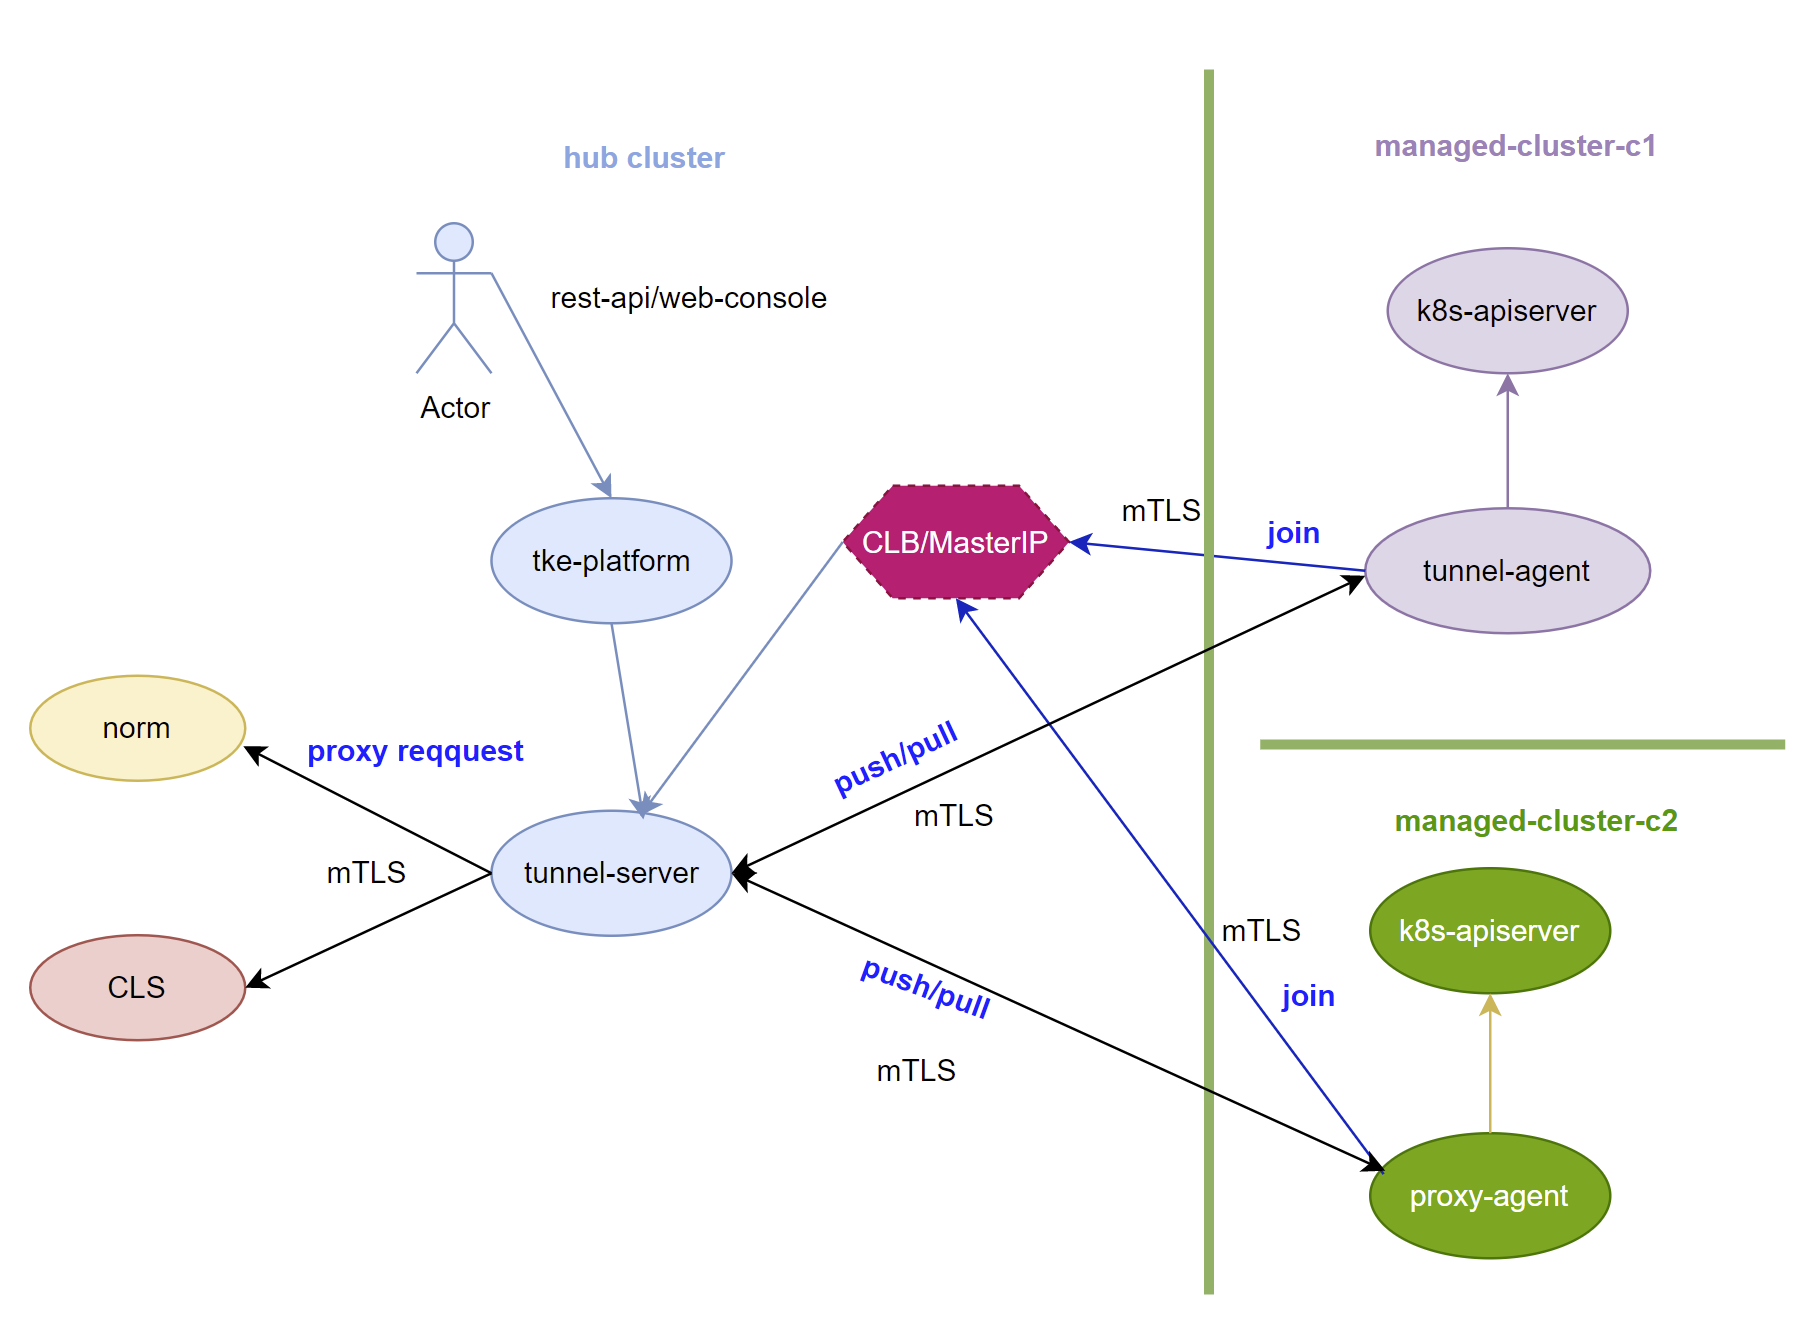
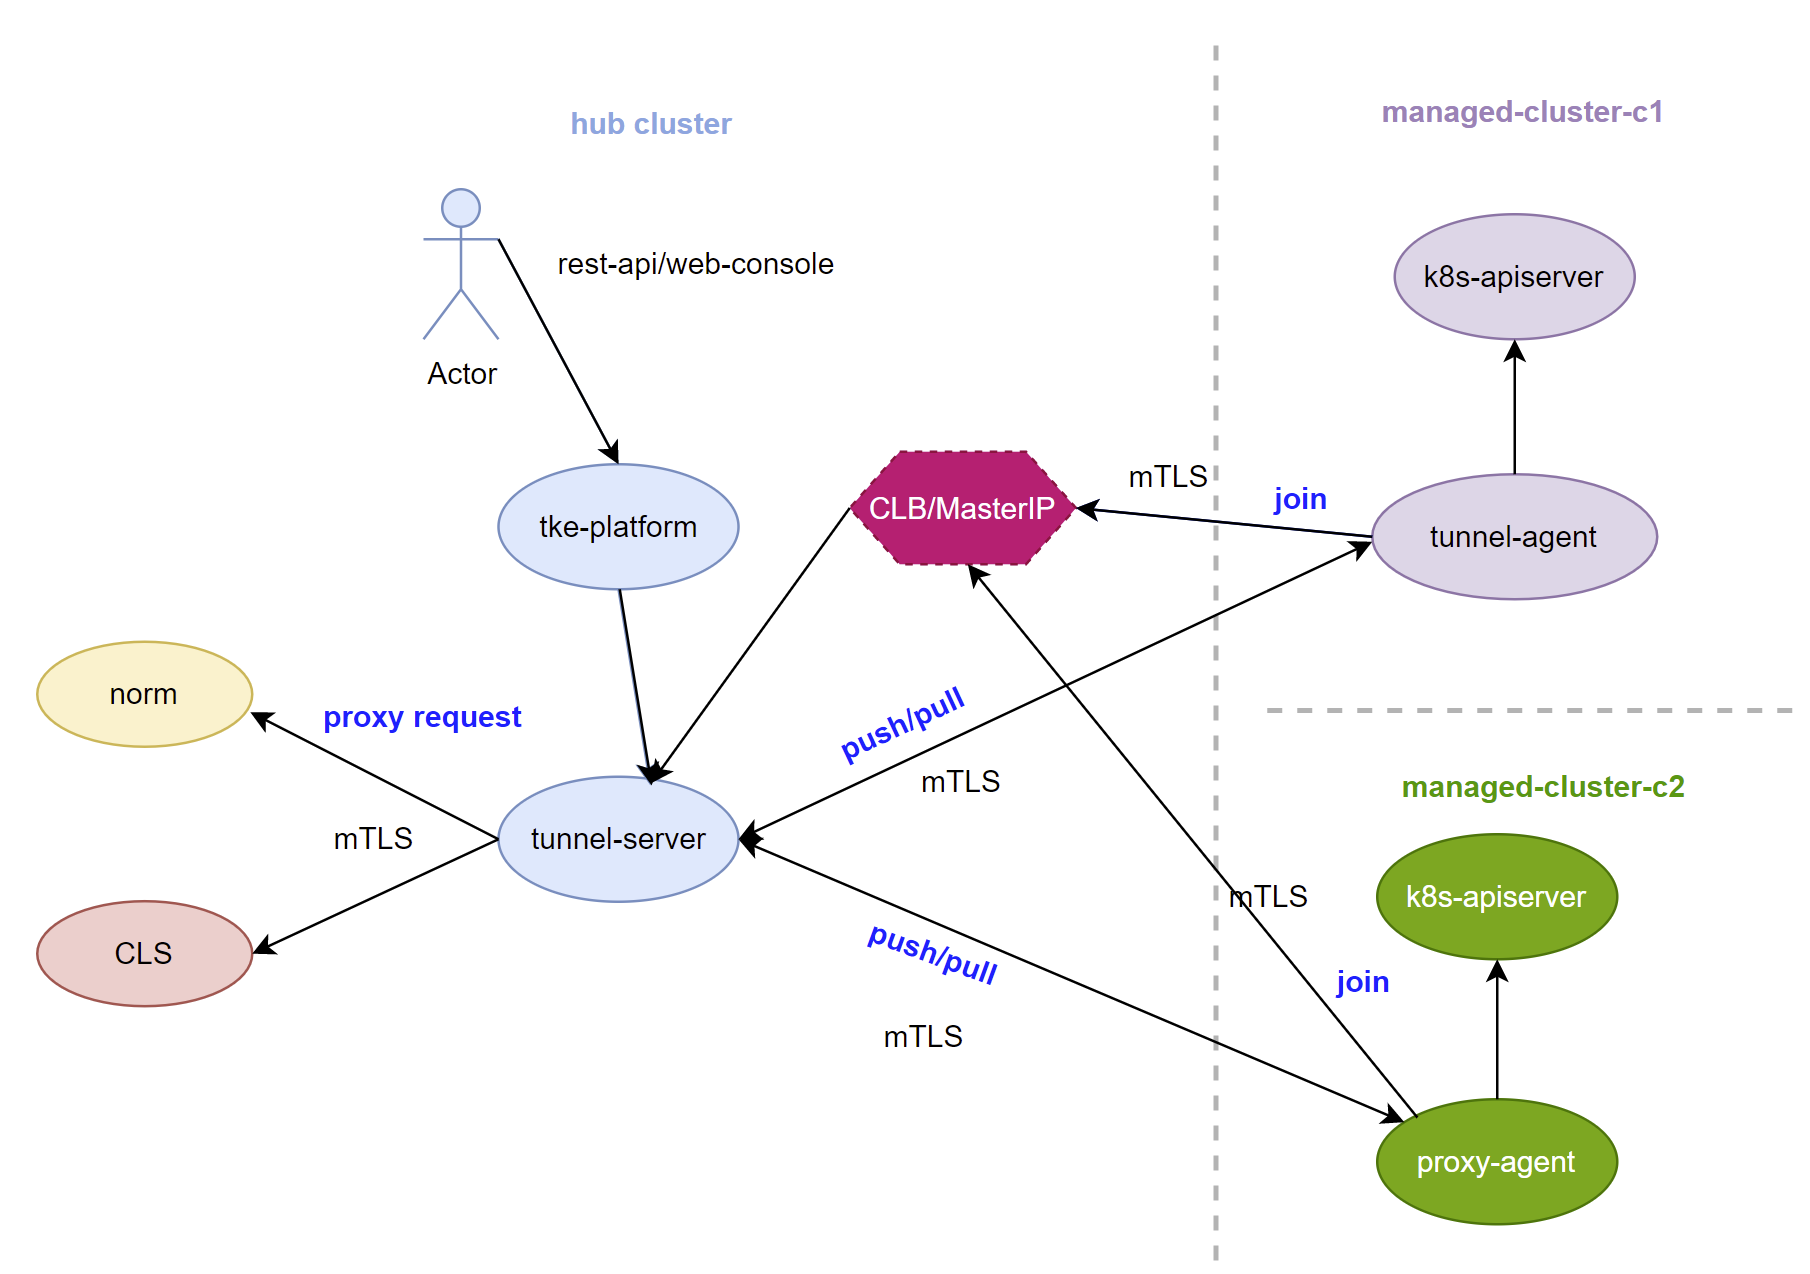
update

diff --git a/pkg/yurttunnel/server/reverse_proxy_server.go b/pkg/yurttunnel/server/reverse_proxy_server.go
@@ -33,7 +33,7 @@ import (
 var (
 	apiServerAddress string = "https://" +
 		net.JoinHostPort(os.Getenv("KUBERNETES_SERVICE_HOST"), os.Getenv("KUBERNETES_SERVICE_PORT"))
-	normServerAddress string = "https://norm"
+	normServerAddress string = "http://169.254.0.40:80/norm/api"
 )
 
 type reverseProxyServer struct {
@@ -79,9 +79,9 @@ func (r *reverseProxyServer) registerHandler() {
 	r.mux.HandleFunc("/v1/healthz", r.healthz).Methods("GET")
 
 	// for norm api request
-	r.mux.PathPrefix("/v1/norm").Handler(&reverseProxyHandler{reverseProxy: normServerAddress})
+	r.mux.PathPrefix("/norm/api").Handler(&reverseProxyHandler{reverseProxy: normServerAddress})
 
-	// for apiserver request
+	// for apiserver request at last
 	r.mux.PathPrefix("/").Handler(&reverseProxyHandler{reverseProxy: apiServerAddress})
 }
 

diff --git a/README.md b/README.md
@@ -47,9 +47,9 @@ kubectl  create -f config/setup/yurt-tunnel-agent.yaml
 
 ## Tunnel test
 
-The `Managed cluster` doesn't have `inbound` network,  so `Hub cluster` can't access to `Managed cluster` directly for communication, but it has `outbound` network which can access to tunnel sever to setup a reverse tunnel , then `Managed cluster` is able to communicate to `Hub cluster` by  this tunnel.  The test client will leverage [ANP client](https://github.com/kubernetes-sigs/apiserver-network-proxy/tree/master/cmd/client) to verify tunnel works as excepted. To simplified the verification test case ,  the tunnel server and tunnel client are deployed to same pod and use same crt/key pairs to enable mTLS based communication
+The `Managed cluster` doesn't have `inbound` network, so `Hub cluster` can't access to `Managed cluster` directly for communication, but it has `outbound` network which can access to tunnel sever to setup a reverse tunnel, then `Managed cluster` is able to communicate to `Hub cluster` by this tunnel. The test client will leverage [ANP client](https://github.com/kubernetes-sigs/apiserver-network-proxy/tree/master/cmd/client) to verify tunnel works as excepted. To simplified the verification test case, the tunnel server and tunnel client are deployed to same pod and use same crt/key pairs to enable mTLS based communication
 
-`Hub cluster`:  
+`Hub cluster`:
 
 ```
 root@VM-0-80-ubuntu:~# kubectl get node
@@ -67,7 +67,7 @@ NAME          STATUS   ROLES    AGE    VERSION
 root@VM-0-77-ubuntu:~# 
 ```
 
-### case 1:  HTTP-Connect client using mTLS Proxy with dial back Agent to Python based SimpleHTTPServer
+### case 1: HTTP-Connect client using mTLS Proxy with dial back Agent to Python based SimpleHTTPServer
 
 ```
 client =HTTP-CONNECT=> (:10263) proxy (:10262) <=GRPC= agent =HTTP=> SimpleHTTPServer(:8000)
@@ -76,7 +76,7 @@ client =HTTP-CONNECT=> (:10263) proxy (:10262) <=GRPC= agent =HTTP=> SimpleHTTPS
   +----------------------------------------------------+
 ```
 
-1.  Check the tunnel server and tunnel agent both in `Running` and ready to use
+1. Check the tunnel server and tunnel agent both in `Running` and ready to use
 
 ```
 root@VM-0-80-ubuntu:~# kubectl get po -A |grep tunn
@@ -86,14 +86,14 @@ kube-system   yurt-tunnel-agent-7597c6dd89-ncg52         1/1     Running   0    
 root@VM-0-77-ubuntu:~# 
 ```
 
-2.  Run python based HTTP server on managed cluster  
+2. Run python based HTTP server on managed cluster
 
 ```
 root@VM-0-77-ubuntu:~# python -m SimpleHTTPServer
 Serving HTTP on 0.0.0.0 port 8000 ...
 ```
 
-3.   Update `-cluster-name`to the SimpleHTTPServer ip address which identified the managed cluster name and re-deploy tunnel agent
+3. Update `-cluster-name`to the SimpleHTTPServer ip address which identified the managed cluster name and re-deploy tunnel agent
 
 ```
 root@VM-0-77-ubuntu:~/mcm/yurt# git diff -u yurt-tunnel-agent.yaml yurt-tunnel-agent.yaml.bak
@@ -113,13 +113,13 @@ index bbd359e..c853755 100644
 root@VM-0-77-ubuntu:~/mcm/yurt# 
 ```
 
-4.  Copy client binary to tunnel server 
+4. Copy client binary to tunnel server 
 
 ```
 kubectl cp yurt-tunnel-client `kubectl get po -l k8s-app=yurt-tunnel-server -n kube-system -o jsonpath="{.items[0].metadata.name}"`:/ -n kube-system
 ```
 
-5.  Run client to get SimpleHTTPServer response by tunnel
+5. Run client to get SimpleHTTPServer response by tunnel
 
 ```
 root@VM-0-80-ubuntu:~# kubectl exec -it `kubectl get po  -l k8s-app=yurt-tunnel-server -n kube-system -o jsonpath="{.items[0].metadata.name}"` -n kube-system sh
@@ -177,10 +177,10 @@ I0228 23:40:17.195460     122 client.go:317] HTML Response:
 </body>
 </html>
 
-/ # 
+/ #
 ```
 
-### case 2:  HTTP-Connect client-go using mTLS Proxy with dial back Agent to K8S API server
+### case 2: HTTP-Connect client-go using mTLS Proxy with dial back Agent to K8S API server
 
 ```
 client =HTTP-CONNECT=> (:10263) proxy (:10262) <=GRPC= agent =HTTP=> K8S API server(:6443)
@@ -236,7 +236,7 @@ root@VM-0-80-ubuntu:~/mcm/yurt#
 
 ```
 
-3.  Run client to get all pods from managed cluster by tunnel
+3. Run client to get all pods from managed cluster by tunnel
 
 ```
 root@VM-0-80-ubuntu:~/mcm/yurt# kubectl exec -it `kubectl get po  -l k8s-app=yurt-tunnel-server -n kube-system -o jsonpath="{.items[0].metadata.name}"` -n kube-system sh           
@@ -301,7 +301,7 @@ Pod 41: tke-registry-controller-7bfb4799d8-ttt2n
 / # 
 ```
 
-### case 3:  GRPC+UDS Client using Proxy with dial back Agent to K8S API server
+### case 3: GRPC+UDS Client using Proxy with dial back Agent to K8S API server
 ```
 client =HTTP over GRPC+UDS=> (/tmp/uds-proxy) proxy (:10262) <=GRPC= agent =HTTP=> K8S API server(:6443)
   |                                                    ^
@@ -311,10 +311,10 @@ client =HTTP over GRPC+UDS=> (/tmp/uds-proxy) proxy (:10262) <=GRPC= agent =HTTP
 
 **TODO**
 
-##  Hook
+## Hook
 
 Currently, only support `PreStartTunnelAgent` and `PostStartTunnelAgent` hook to execute customized logic for different  cloud provider, for example:
 
-1. Tunnel agent responsible for report the managed cluster  `admin` token to Tunnel server and persist it to global/meta cluster so that `tke-platform` use it to create k8s `ClientSet` to operator managed cluster,  `tke` and `tkestack` provider will implements different logic according to the case 
+1. Tunnel agent responsible for report the managed cluster `admin` token to Tunnel server and persist it to global/meta cluster so that `tke-platform` use it to create k8s `ClientSet` to operator managed cluster, `tke` and `tkestack` provider will implements different logic according to the case 
 
 ## HA
